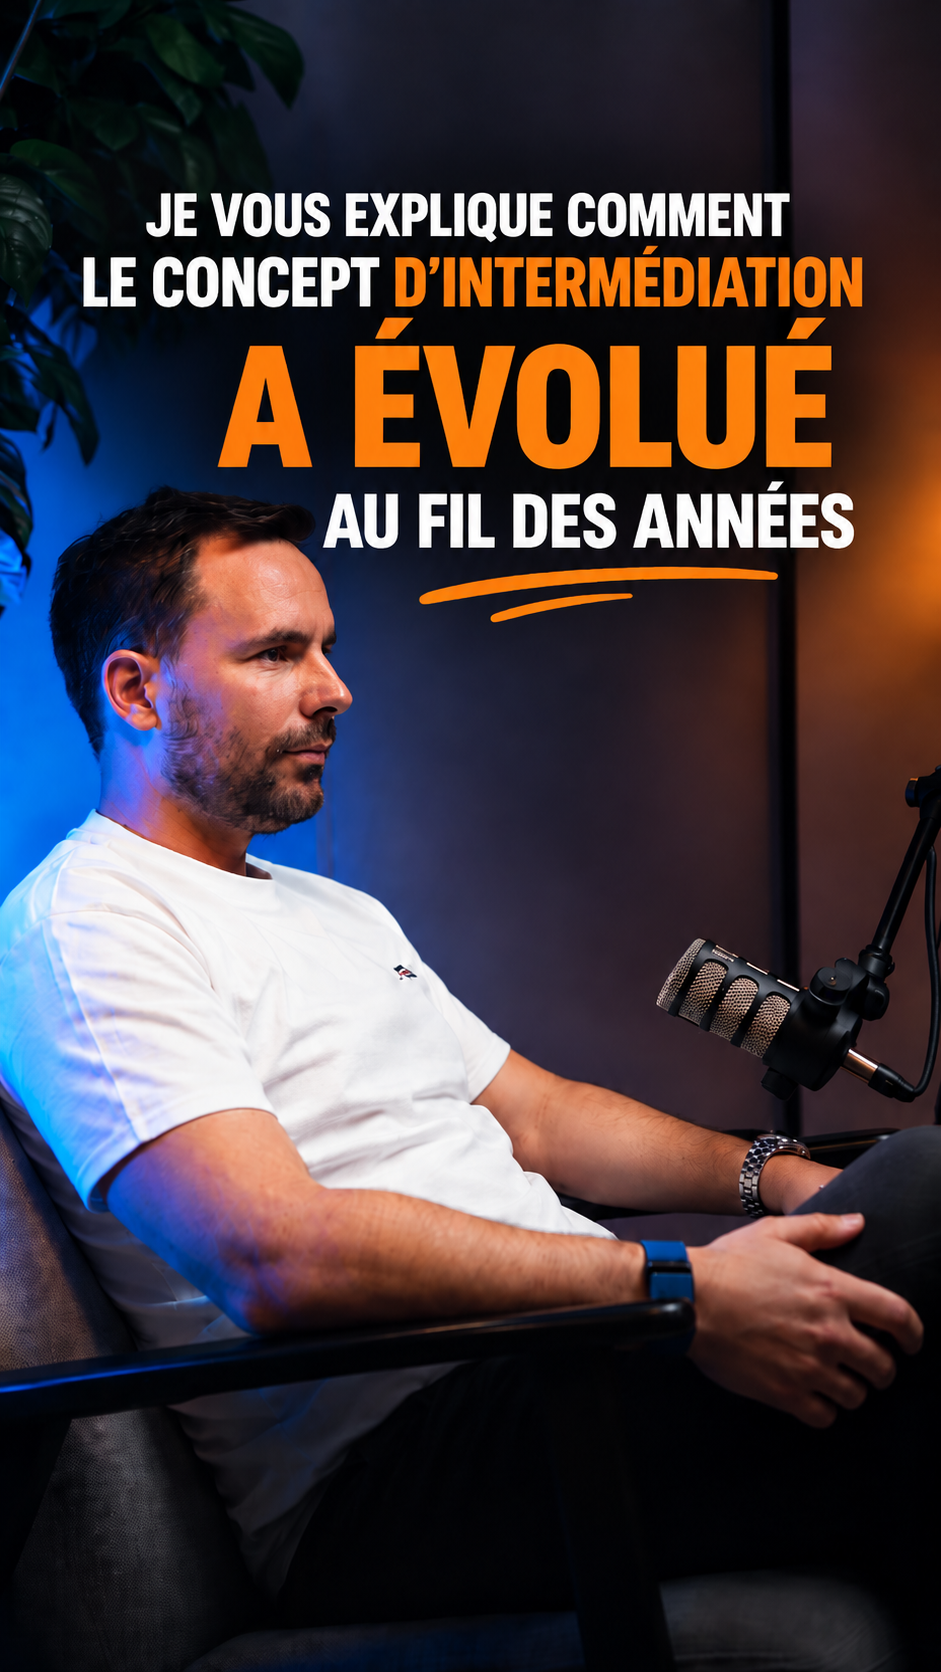
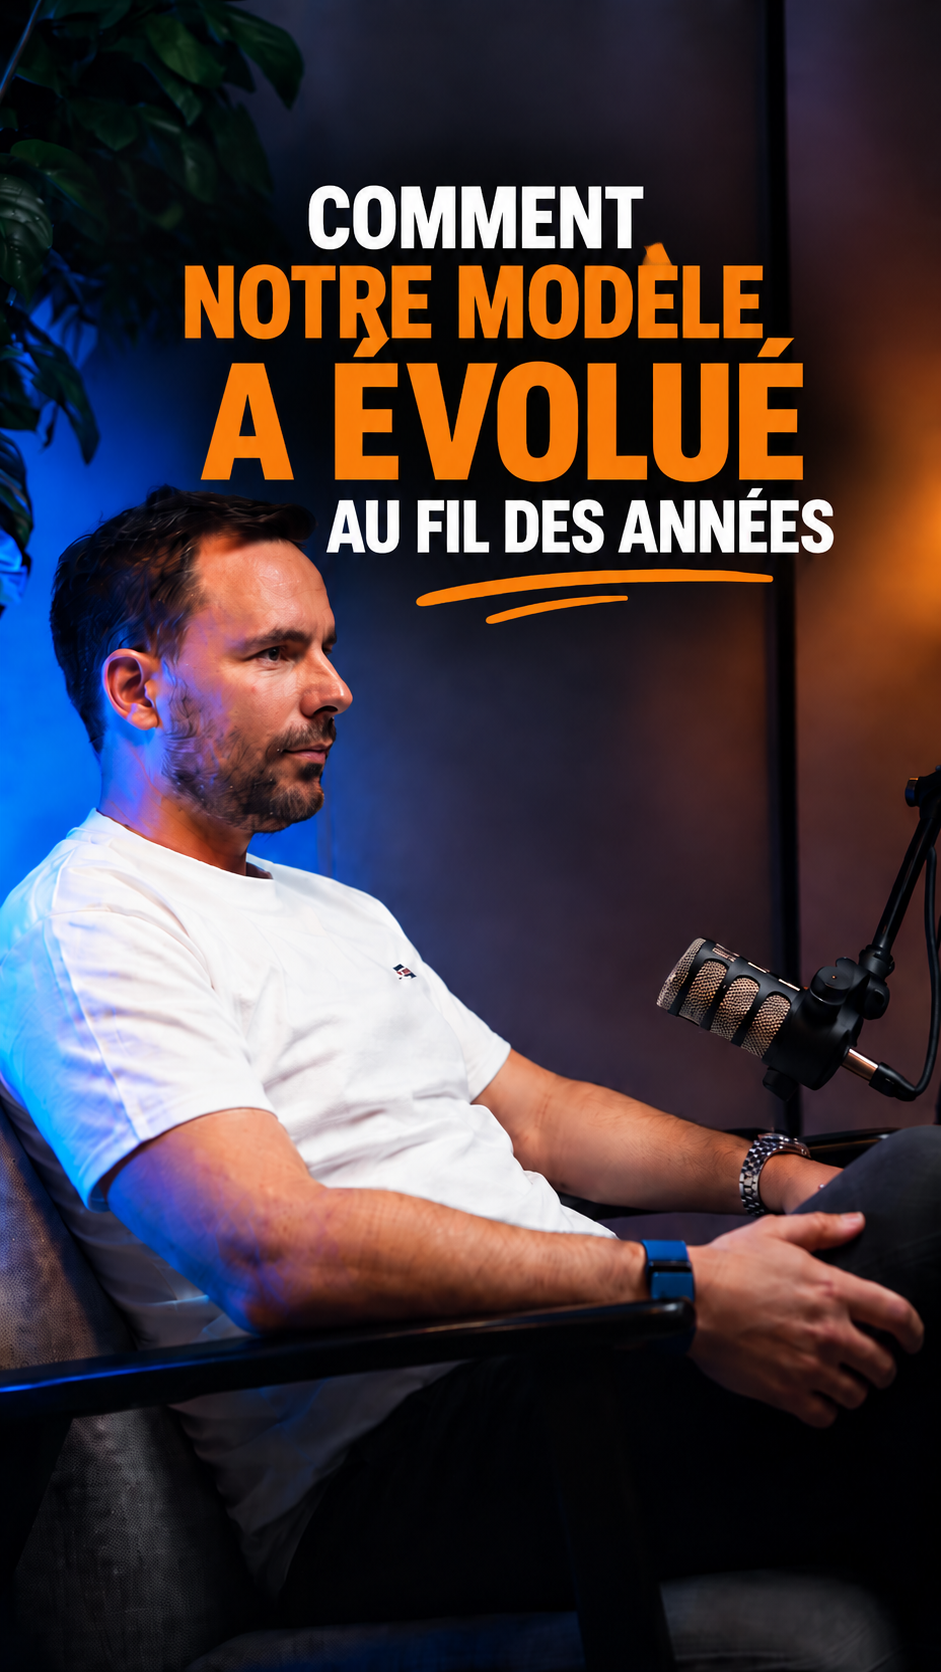
Clip 3 finalisé : cover corrigée
La cover annonce désormais « Comment notre modèle a évolué au fil des
années » au lieu de « le concept d'intermédiation », mot jamais prononcé
dans ce rush qui parle de locaux. La promesse correspond au contenu.

Claude-Session: https://claude.ai/code/session_01J3YxZpMLFe1pdvFuyLSf8m

diff --git a/PLAN-EDITORIAL.md b/PLAN-EDITORIAL.md
@@ -63,10 +63,13 @@ sans casser la syntaxe. La cover masque jusqu'à 4,28 s, le sous-titre d'origine
 « LA FRANCHISE, QUAND ON » restant affiché jusqu'à 1,50 s. L'image se révèle sur
 « vraiment pas les mêmes qu'aujourd'hui », en fin de proposition.
 
-**Analyse** : le rush ouvre sur « Quand on a vraiment lancé **la franchise**, quand on a eu
-nos premières agences... ». Les deux propositions disent la même chose : on supprime la
-première, on garde la seconde. Zéro perte de sens, mot évacué. Cas d'école de la règle.
-Le reste est un pur propos de stratégie immobilière et d'adaptation de modèle.
+**Analyse** : les deux propositions d'ouverture disent la même chose, on supprime la
+première et on garde la seconde. Zéro perte de sens, mot évacué. Le reste est un pur
+propos de stratégie immobilière et d'adaptation de modèle.
+
+**Cover** : `assets/cover-03.png` — « Comment notre modèle a évolué au fil des années ».
+Une première version annonçait « le concept d'intermédiation », mot jamais prononcé dans
+ce rush, qui parle de locaux : promesse corrigée.
 
 ---
 
